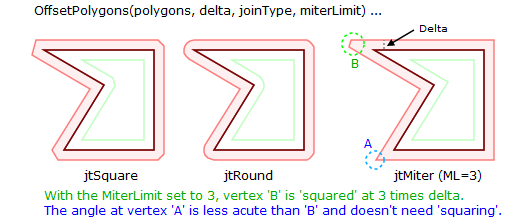
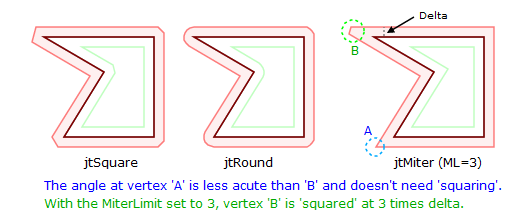
Updating GR32_Clipper documentation.
git-svn-id: svn://svn.code.sf.net/p/graphics32/code/trunk@2042 dadbf757-a53b-4b3f-9c79-7c22a95d7d7a

Changed region(s): [[0.0611, 0.0273, 0.9466, 0.9818]]

diff --git a/Documentation/Source/Units/GR32_Clipper/Routines/InflatePolygons.htm b/Documentation/Source/Units/GR32_Clipper/Routines/InflatePolygons.htm
@@ -1,0 +1,22 @@
+<html>
+<head>
+<title>G32Version</title>
+<link rel="stylesheet" href="../../../../styles/default.css" type="text/css">
+</head>
+<body bgcolor="#FFFFFF">
+
+<p class="Decl"><b>function</b> InflatePolygons(<b>const</b> Polygons: TArrayOfArrayOfFloatPoint; <b>const</b> Delta: TFloat; JoinType: TJoinType = jtSquare; MiterLimit: TFloat = 2): TArrayOfArrayOfFloatPoint;</p>
+
+<p  class="Body">This function inflates (grows) or deflates (shrinks) Polygons by the Delta amount. Positive Delta values inflate outer polygons and deflate inner 'hole' polygons. Negative Deltas do the reverse.</p>
+<br>
+
+<p  class="Body">Edge joins may be one of three <a href="../Types/TJoinType.htm">join types</a> - jtMiter, jtSquare or jtRound. If the join type is jtMiter, then the <b>MiterLimit</b> parameter will determine the maximum distance from the original vertex that the newly offsetted vertex is allowed (in multiples of Delta) before squaring is applied.</p>
+<br>
+
+<p  class="Body">It's important that the polygons passed to this function are oriented such that <b>outer polygons have a clockwise <a href="./Orientation.htm">orientation</a></b> and <b>inner 'hole' polygons have a counter-clockwise <a href="./Orientation.htm">orientation</a></b>. If the orientations of input polygons are incorrect, the function will return unexpected results.</p>
+<br>
+
+<p class="Body" ><img src="../../../../Images/clip_jointypes.png" alt="" border="0"></p>
+
+</body>
+</html>

diff --git a/Documentation/Source/Units/GR32_Clipper/Routines/Orientation.htm b/Documentation/Source/Units/GR32_Clipper/Routines/Orientation.htm
@@ -15,7 +15,7 @@ Orientation is important to differentiate outer 'container' polygon contours fro
 
 When polygons are <a href="../Classes/TClipperBase/Methods/Add.htm">Added</a> to a <a href="../Classes/TClipper/_Body.htm">TClipper</a> object, <b>it doesn't matter whether outer polygons have clockwise or counter-clockwise orientation</b>, it's only important that inner polygons have the opposite orientation to outer polygons. <br><br> 
 
-However, when polygons are passed to the <a href="./OffsetPolygons.htm">OffsetPolygons</a> function, <b>it is important that outer polygons have a clockwise orientation</b>.<br><br>
+However, when polygons are passed to the <a href="./InflatePolygons.htm">InflatePolygons</a> function, <b>it is important that outer polygons have a clockwise orientation</b>.<br><br>
 
 It is assumed that the programmer understands polygon winding rules and how these affect <a href="../Types/TPolyFillType.htm">polygon filling</a> (rendering), and that polygon orientation is integral to determining winding values.<br>
 </p>

diff --git a/Documentation/Source/Units/GR32_Clipper/Types/TPolyFillType.htm b/Documentation/Source/Units/GR32_Clipper/Types/TPolyFillType.htm
@@ -17,8 +17,7 @@
 </p>
 
 <p class="Body">
-Graphics32 currently only supports the two most widely used polygon filling rules for polygon rendering - EvenOdd (aka Alternate) and NonZero (aka Winding).<br> 
-However, while Positive and Negative filling rules are not supported by the renderer, the TClipper class used in clipping operations does accommodate them (see <a href="../Classes/TClipper/Methods/Execute.htm">TClipper.Execute</a>).<br><br>
+Graphics32 currently only supports the two most widely used polygon filling rules for polygon rendering - EvenOdd (aka Alternate) and NonZero (aka Winding). However, while Positive and Negative filling rules are not supported by the renderer, the TClipper class used in clipping operations does accommodate them (see <a href="../Classes/TClipper/Methods/Execute.htm">TClipper.Execute</a>).<br><br>
 
 For more details about polygon filling rules see:<br>
 <a href="http://www.w3.org/TR/SVG/painting.html#FillRuleProperty">Polygon filling rules in SVG</a><br>

diff --git a/Documentation/Source/Units/GR32_Clipper/Types/TPolyType.htm b/Documentation/Source/Units/GR32_Clipper/Types/TPolyType.htm
@@ -7,7 +7,8 @@
 <p class="Decl">TPolyType = (ptSubject, ptClip);</p>
 <br>
 <h2>Description</h2>
-<p class="Body">A Polygon or group of polygons <a href="../Classes\TClipperBase\Methods\Add.htm">added</a> to a <a href="../Classes\TClipper\_Body.htm">TClipper</a> object can be either <b>subjects</b> or <b>clips</b>.</p>
+<p class="Body">A Polygon or group of polygons <a href="../Classes\TClipperBase\Methods\Add.htm">added</a> to a <a href="../Classes\TClipper\_Body.htm">TClipper</a> object can be either <b>Subject</b> or <b>Clip</b> polygons.<br><br>
+For <b>Intersection</b>, <b>Union</b> and <b>XOR</b> clipping operations it doesn't matter which group of polygons are assigned to which polygon type as the result will be the same. However, for <b>Difference</b> operations, the result polygons will be the subject polygons minus any regions covered by clip polygons.</p>
 
 <a href="./TClipType.htm" id="hidden"></a>
 

diff --git a/Documentation/Source/Units/GR32_Clipper/_Body.htm b/Documentation/Source/Units/GR32_Clipper/_Body.htm
@@ -5,8 +5,8 @@
 </head>
 <body bgcolor="#FFFFFF">
 <b>Unit</b> GR32_Clipper<br>
-<p class="Body">The GR32_Clipper unit primarily performs <b>boolean clipping</b> (intersection, union, difference and xor) of polygons.<br> 
-This unit also provides a <b>polygon offsetting</b> function.</p><br>
+<p class="Body">The GR32_Clipper unit primarily performs <b>boolean polygon clipping</b> (intersection, union, difference and xor).<br> 
+This unit also provides a polygon transformation function - <b>InflatePolygons</b> - that can both inflate (grow) and deflate (shrink) polygons.</p><br>
 
 </body>
 </html>

diff --git a/Documentation/Source/Units/GR32_Clipper/Types/TJoinType.htm b/Documentation/Source/Units/GR32_Clipper/Types/TJoinType.htm
@@ -7,7 +7,9 @@
 
 <p class="Decl">TJoinType = (jtSquare, jtRound, jtMiter);</p>
 <br>
-<p  class="Body">The TJoinType value passed to the <a href="../Routines/OffsetPolygons.htm">OffsetPolygons</a> function determines how polygon edges are joined during offsetting.</p>
+<p  class="Body">The TJoinType value passed to the <a href="../Routines/InflatePolygons.htm">InflatePolygons</a> function determines how polygon edges are joined.</p>
+
+<p class="Body" ><img src="../../../../Images/clip_jointypes.png" alt="" border="0"></p>
 
 </body>
 </html>
